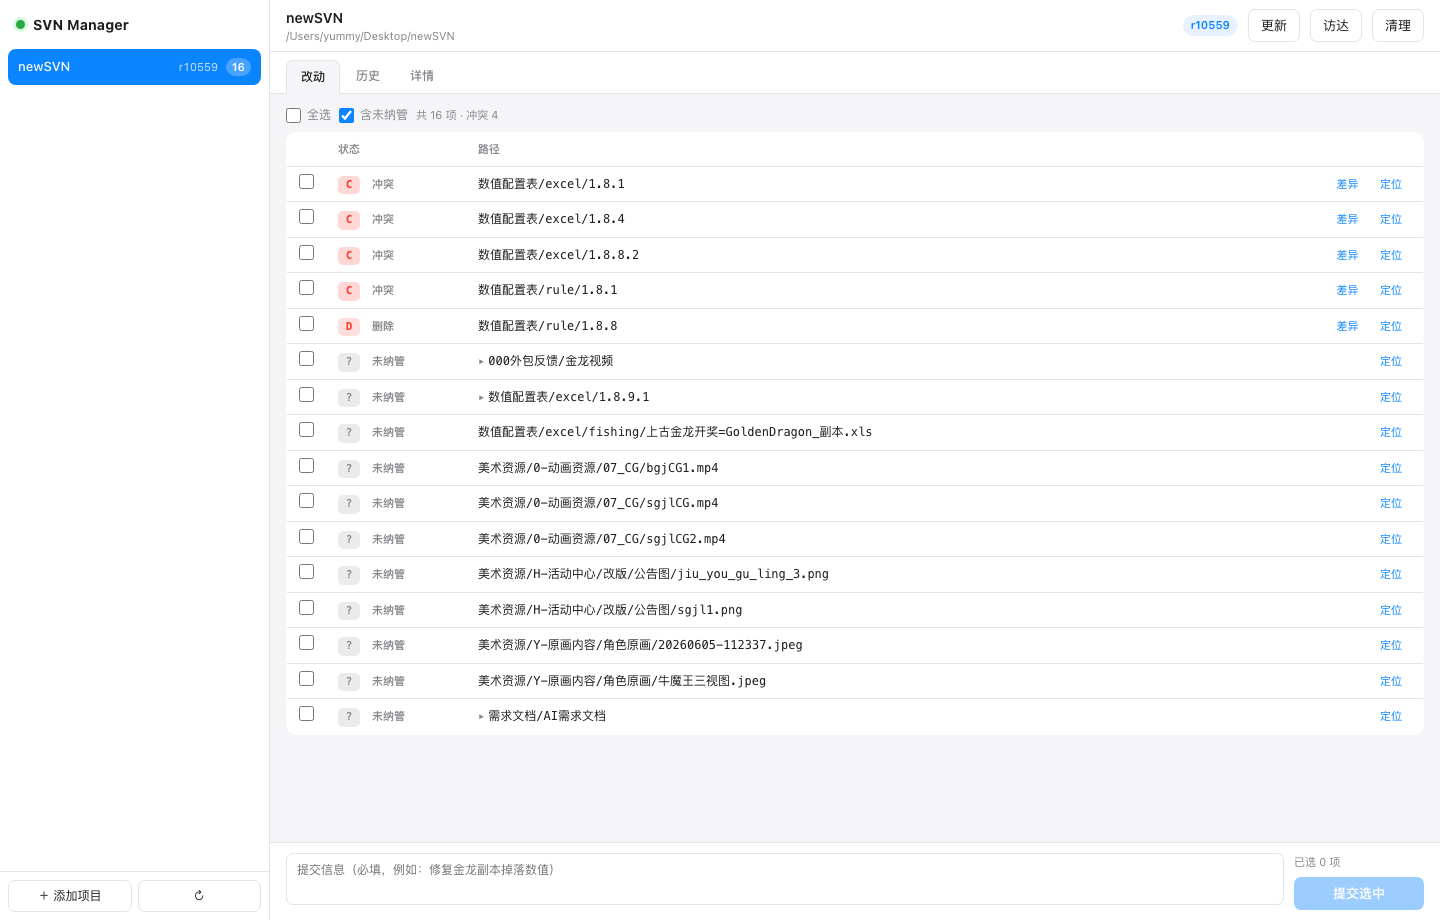
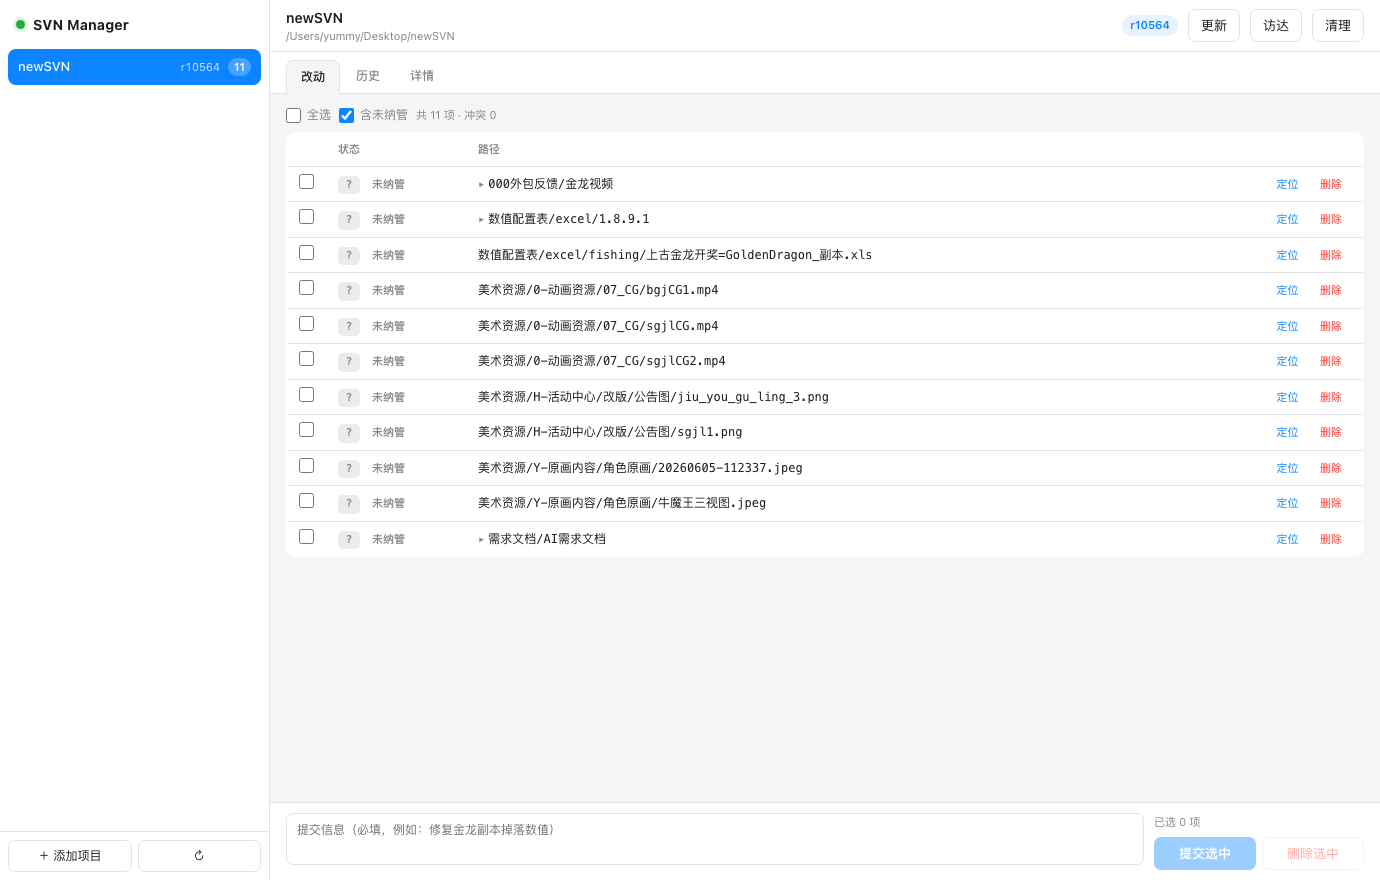
新增删除功能
- 已纳管文件/目录走 svn delete，标记为 D 可提交
- 未纳管的直接移除（目录递归）
- 行内删除 + 批量删除选中，均二次确认
- 路径越界校验，防止删除项目外文件

diff --git a/svnmanager.py b/svnmanager.py
@@ -6,6 +6,7 @@ SVN Manager — 多项目 Subversion 图形客户端
 """
 import json
 import os
+import shutil
 import subprocess
 import sys
 import tempfile
@@ -190,6 +191,56 @@ def do_commit(root, paths, message, add_unversioned=True):
             os.unlink(tf)
         except OSError:
             pass
+
+
+def do_delete(root, paths):
+    """删除：已纳管的走 svn delete（标记为 D，可提交），未纳管的直接删磁盘"""
+    if not paths:
+        return {"ok": False, "output": "没有选中任何文件"}
+    items, _ = parse_status(root)
+    unver = {i["path"] for i in items if i["code"] == "?"}
+
+    abs_paths = []
+    for rel in paths:
+        try:
+            abs_paths.append(safe_join(root, rel))
+        except ValueError as e:
+            return {"ok": False, "output": str(e)}
+
+    to_svn, to_fs = [], []
+    for rel, ap in zip(paths, abs_paths):
+        (to_fs if rel in unver else to_svn).append(ap)
+
+    msgs = []
+    if to_svn:
+        fd, tf = tempfile.mkstemp(prefix="svnmg-", suffix=".txt")
+        os.close(fd)
+        try:
+            with open(tf, "w", encoding="utf-8") as f:
+                for p in to_svn:
+                    f.write(p + "\n")
+            rc, out, err = svn(["delete", "--force", "--non-interactive",
+                                "--targets", tf], cwd=root, timeout=300)
+            msgs.append((out + err).strip())
+            if rc != 0:
+                return {"ok": False, "output": "\n".join(msgs)}
+        finally:
+            try:
+                os.unlink(tf)
+            except OSError:
+                pass
+
+    for ap in to_fs:
+        try:
+            if os.path.isdir(ap) and not os.path.islink(ap):
+                shutil.rmtree(ap)
+            elif os.path.exists(ap) or os.path.islink(ap):
+                os.remove(ap)
+            msgs.append("已删除（未纳管，直接移除文件）: " + os.path.relpath(ap, root))
+        except Exception as e:
+            msgs.append("删除失败 %s: %s" % (os.path.relpath(ap, root), e))
+
+    return {"ok": True, "output": "\n".join(m for m in msgs if m)}
 
 
 def do_log(root, limit=30):
@@ -394,6 +445,12 @@ class Handler(BaseHTTPRequestHandler):
             rc, out, err = svn(["cleanup", "--non-interactive"], cwd=pr["path"], timeout=600)
             return self._json({"ok": rc == 0, "output": (out + err).strip()})
 
+        if p == "/api/delete":
+            pr = find_project(b.get("name"))
+            if not pr:
+                return self._json({"ok": False, "output": "项目不存在"})
+            return self._json(do_delete(pr["path"], b.get("paths") or []))
+
         if p == "/api/commit":
             pr = find_project(b.get("name"))
             if not pr:
@@ -507,6 +564,8 @@ td.pth{font-family:"SF Mono",Menlo,monospace;font-size:12px;word-break:break-all
 td.act{width:1%;white-space:nowrap;text-align:right}
 td.act button{padding:2px 8px;font-size:11px;background:transparent;border-color:transparent;color:var(--accent)}
 td.act button:hover{background:var(--accent-soft)}
+td.act button.del{color:var(--red)}
+td.act button.del:hover{background:rgba(255,59,48,.12)}
 .badge{display:inline-block;min-width:22px;text-align:center;font-size:11px;font-weight:700;
   padding:1px 6px;border-radius:5px;font-family:"SF Mono",Menlo,monospace}
 .badge.lbl{font-family:inherit;font-weight:600;margin-left:6px;min-width:auto;white-space:nowrap}
@@ -524,7 +583,9 @@ td.act button:hover{background:var(--accent-soft)}
 .commitbar{flex:none;border-top:1px solid var(--line);background:var(--panel);padding:10px 16px;
   display:flex;gap:10px;align-items:flex-end}
 .commitbar textarea{resize:none;height:52px;font-size:12px}
-.commitbar .side{display:flex;flex-direction:column;gap:6px;align-items:stretch;min-width:130px}
+.commitbar .side{display:flex;flex-direction:column;gap:6px;align-items:stretch;min-width:210px}
+.btnrow{display:flex;gap:6px}
+.btnrow button{flex:1;white-space:nowrap}
 .hint{font-size:11px;color:var(--muted)}
 .rowtop{display:flex;align-items:center;gap:8px;margin-bottom:8px}
 .selall{display:flex;align-items:center;gap:6px;font-size:12px;color:var(--muted);cursor:pointer;user-select:none}
@@ -608,7 +669,10 @@ pre.diff .hunk{color:var(--accent)}
       </div>
       <div class="side">
         <div class="hint" id="selhint">已选 0 项</div>
-        <button class="primary" id="btnCommit" onclick="doCommit()" disabled>提交选中</button>
+        <div class="btnrow">
+          <button class="primary" id="btnCommit" onclick="doCommit()" disabled>提交选中</button>
+          <button class="danger" id="btnDel" onclick="delSelected()" disabled>删除选中</button>
+        </div>
       </div>
     </div>
   </main>
@@ -735,6 +799,7 @@ function renderStatus(){
           <td class="act">
             ${it.code==='?'?'':`<button onclick="showDiff('${esc(it.path).replace(/'/g,"\\'")}')">差异</button>`}
             <button onclick="reveal('${esc(it.path).replace(/'/g,"\\'")}')">定位</button>
+            <button class="del" onclick="delOne('${esc(it.path).replace(/'/g,"\\'")}')">删除</button>
           </td>
         </tr>`).join('')}
       </tbody>
@@ -753,8 +818,9 @@ function toggleOne(i, on){
 }
 function updateSelHint(){
   const n = S.sel.size;
-  $('#selhint').textContent = '已选 ' + n + ' 项';
-  $('#btnCommit').disabled = n===0;
+  const el = $('#selhint'); if(el) el.textContent = '已选 ' + n + ' 项';
+  const bc = $('#btnCommit'); if(bc) bc.disabled = n===0;
+  const bd = $('#btnDel'); if(bd) bd.disabled = n===0;
 }
 async function showDiff(path){
   $('#body').classList.add('loading');
@@ -787,6 +853,31 @@ async function doCleanup(){
   toast(d.ok?'清理完成':'清理出错');
   $('#body').innerHTML = `<pre class="out">${esc(d.output||'')}</pre>`;
   await loadStatus();
+}
+async function delOne(p){
+  if(!confirm('确定删除？\n\n' + p + '\n\n· 已纳入版本控制 → 标记为删除，提交后生效（可撤销）\n· 未纳管 → 直接从磁盘移除文件')) return;
+  await doDelete([p]);
+}
+async function delSelected(){
+  const paths = [...S.sel];
+  if(!paths.length) return;
+  const list = paths.slice(0, 8).join('\n') + (paths.length > 8 ? '\n… 共 ' + paths.length + ' 项' : '');
+  if(!confirm('确定删除选中的 ' + paths.length + ' 项？\n\n' + list)) return;
+  await doDelete(paths);
+}
+async function doDelete(paths){
+  $('#body').classList.add('loading');
+  toast('正在删除…', 30000);
+  const d = await api('/api/delete', {name:S.cur, paths});
+  $('#body').classList.remove('loading');
+  if(d.ok){
+    toast('✓ 已删除 ' + paths.length + ' 项', 3000);
+    S.sel.clear();
+    await refreshAll(); await loadStatus();
+  } else {
+    toast('✗ 删除失败', 4000);
+    $('#body').innerHTML = `<pre class="out">${esc(d.output||'')}</pre>`;
+  }
 }
 async function doCommit(){
   const paths = [...S.sel];

diff --git a/README.md b/README.md
@@ -30,6 +30,7 @@ GitHub 上搜到的几个「macOS SVN 客户端」基本都是没有可运行发
 - **多项目侧栏**，项目数量无限制，每个显示当前版本号和改动数
 - **改动列表**：状态徽章（`C` 冲突 / `M` 修改 / `A` 新增 / `D` 删除 / `?` 未纳管 / `!` 缺失），逐文件查看差异、定位到访达
 - **勾选 + 写提交信息 → 提交**，未纳管文件可自动 `svn add`
+- **删除**：已纳管的走 `svn delete`（标记为 `D`，可撤销、可提交），未纳管的直接移除文件；支持单行删除和批量删除
 - **历史时间线**：版本号、作者、时间、提交信息、改动路径
 - **详情**：仓库 URL、UUID、最后修改者、最后修改版本
 - **一键更新 / 清理（cleanup）**
@@ -106,9 +107,9 @@ svn resolve --accept working <路径>
 
 ## 已知限制
 
-- 没有文件级的「删除」按钮（走 `svn delete`），目前删除需要命令行或其它客户端
 - 没有 `blame`、`merge`、分支切换
 - 差异查看只对文本文件有意义（二进制文件只会显示一行提示）
+- 冲突解决需要命令行（`svn resolve`），界面里只能看状态和差异
 
 ## License
 
